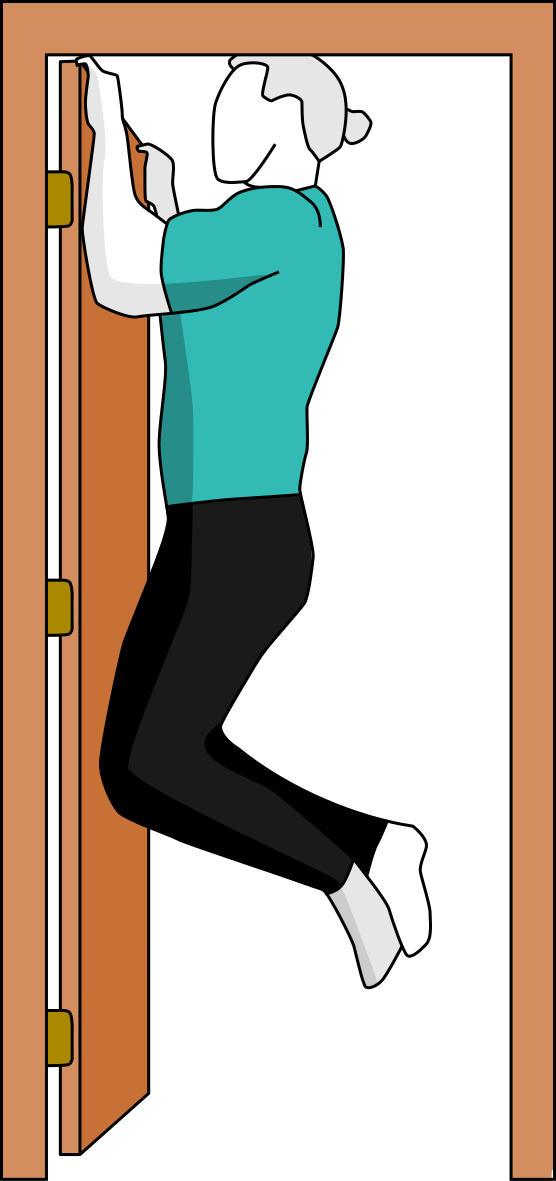
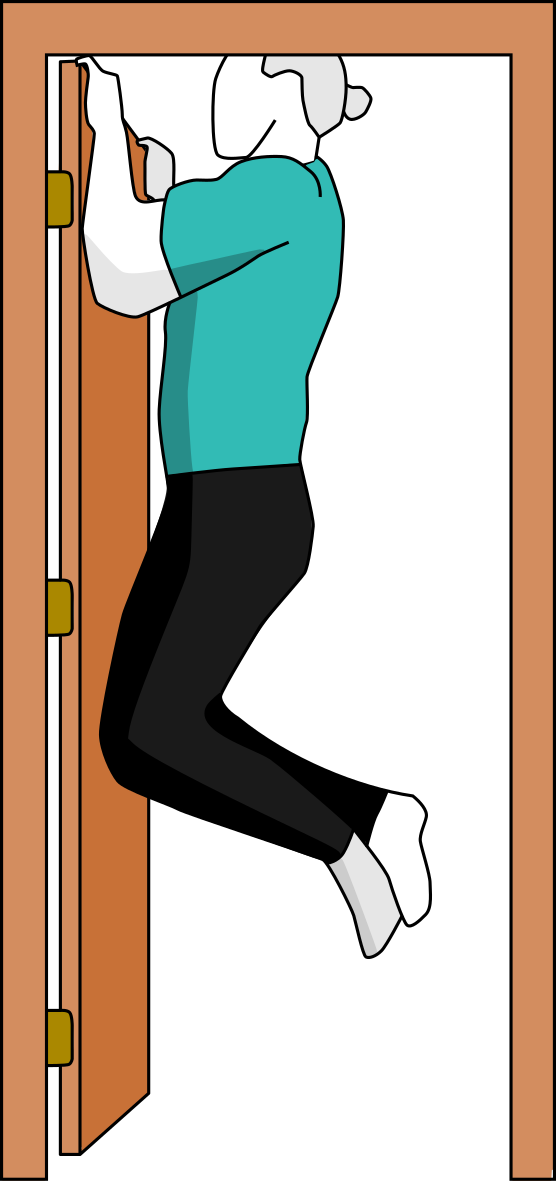
adds hold movements

Changed region(s): [[0.1529, 0.0305, 0.795, 0.8535], [0.1529, 0.061, 0.1835, 0.2134]]

diff --git a/xbapp/src/components/strength/MovementPicker.jsx b/xbapp/src/components/strength/MovementPicker.jsx
@@ -26,7 +26,6 @@ const moves = [
     description:
       "Find a sturdy box or chair. Facing away, extend your arms, feet spaced shoulder-width apart, push your bum outwards, and bring your body down and angled forwards until your bum touches the chair. Widen stance to increase difficulty.",
     images: ["box_squat_rest.png", "box_squat_engaged.png"],
-    type: "push",
     difficulty:
       "Don't rest on the box, just use it as your stopping point. Try a full squat if this is too easy. Lower the box to make this harder.",
     technique: "bilateral",
@@ -38,7 +37,6 @@ const moves = [
     description:
       "Extend your arms, feet spaced shoulder-width apart, push your bum outwards, and bring your body down and angled forwards as far as possible. Widen stance to increase difficulty.",
     images: ["full_squat_rest.png", "full_squat_engaged.png"],
-    type: "push",
     difficulty:
       "Get your bum as low as possible; if that's difficult, hang on to a door handle and lower yourself to feel the back of your legs hit the back of your calves.",
     technique: "bilateral",
@@ -53,7 +51,6 @@ const moves = [
       "bulgarian_split_squat_rest.png",
       "bulgarian_split_squat_engaged.png",
     ],
-    type: "push",
     difficulty:
       "Try a full squat if this is too hard; or a box pistol squat if this is too easy",
     technique: "isolateral",
@@ -65,7 +62,6 @@ const moves = [
     description:
       "Find a sturdy box or chair. If using a box, step on and squat your leg, angling your body forward with extended hands for balance. If using a chair, face away and squat with one leg, extending the other leg forward, until your bum touches the chair.",
     images: ["box_pistol_squat_rest.png", "box_pistol_squat_engaged.png"],
-    type: "push",
     difficulty: "",
     technique: "isolateral",
   },
@@ -76,7 +72,6 @@ const moves = [
     description:
       "The FOCUS in the movement is to LIFT your body with the bent leg, by using the bent leg and straightening it – just like we do climbing up stairs. You can lean forward over the bent leg to help lift the back leg up. PRACTICE USING AS LITTLE of the straight leg foot as possible. From standing on the box, reverse the movement, to lower the straight leg back down to the ground. Again, use the bent leg side to do the work.",
     images: ["step_up_rest.png", "step_up_engaged.png"],
-    type: "push",
     difficulty: "",
     technique: "isolateral",
   },
@@ -87,7 +82,6 @@ const moves = [
     description:
       "HANG ONTO something – a banister, door jam, door handles, your partner graciously hanging onto your mitts – whatever and AS LONG AS THERE’S NO PAIN – get down there, and get on up out of there.",
     images: ["supported_squat_rest.png", "supported_squat_engaged.png"],
-    type: "push",
     difficulty: "",
     technique: "bilateral",
   },
@@ -101,7 +95,6 @@ const moves = [
       "shoulder_stand_squat_rest.png",
       "shoulder_stand_squat_engaged.png",
     ],
-    type: "push",
     difficulty: "",
     technique: "bilateral",
   },
@@ -112,7 +105,6 @@ const moves = [
     description:
       "Lay on your back, arms flat either side, knees bent pointing upwards. Drive your hips upwards until your back is nearly straight, pivoting from your shoulder blades. Rest a weight on your body to increase difficulty.",
     images: ["glute_raise_rest.png", "glute_raise_engaged.png"],
-    type: "push",
     difficulty: "Try a short bridge if this is too easy.",
     technique: "bilateral",
   },
@@ -123,7 +115,6 @@ const moves = [
     description:
       "Lay on your back, knees bent upwards, arms laying either side of your body or resting on your belly. Drive your hips upwards, forming a bridge shape with your back, pivoting from your upper back. Hold a weight to increase difficulty.",
     images: ["short_bridge_rest.png", "short_bridge_engaged.png"],
-    type: "push",
     difficulty: "Try a single leg romanian deadlift if this is too easy.",
     technique: "bilateral",
   },
@@ -137,7 +128,6 @@ const moves = [
       "single_leg_romanian_deadlift_rest.png",
       "single_leg_romanian_deadlift_engaged.png",
     ],
-    type: "push",
     difficulty:
       "Place your hands on the back of a chair if balance is a challenge, or go hands-free to make this harder.",
     technique: "isolateral",
@@ -149,7 +139,6 @@ const moves = [
     description:
       "Find a sturdy box or chair. Lie back on object, keeping feet flat and shoulder width apart. Place hands either side of your head, palms flat on object, fingers pointing at your toes. Press through the hands, pushing your hips up and arcing your back as far as you can.",
     images: ["angled_bridge_rest.png", "angled_bridge_engaged.png"],
-    type: "push",
     difficulty: "Try one of the easier squats if this is too hard.",
     technique: "bilateral",
   },
@@ -160,7 +149,6 @@ const moves = [
     description:
       "Start laying face down on the floor, legs and arms fully extended so you look like a green bean. For the movement, simultaneously bring both legs up, as well as your upper body (pivot from the diaphragm), and bring both arms backwards and inwards pressing your shoulder blades together.",
     images: ["the_swimmer_rest.png", "the_swimmer_engaged.png"],
-    type: "pull",
     difficulty: "",
     technique: "bilateral",
   },
@@ -171,7 +159,6 @@ const moves = [
     description:
       "This drill is basically stand away from a wall, and reach back to touch it with your butt, then stand up straight – where you use your legs as much as possible to manage the load. That is avoid falling towards the wall, or pushing with your butt to throw yourself forward from the wall. Keep your knees at your ankles – this helps work the right muscles.",
     images: ["wall_rdl_prep_rest.png", "wall_rdl_prep_engaged.png"],
-    type: "pull",
     difficulty: "",
     technique: "bilateral",
   },
@@ -182,7 +169,6 @@ const moves = [
     description:
       "With knees up back in contact ALWAYS with the floor, arms reach straight up for the sky. Pulse up – it’s a very small movement, but doing it you’ll feel it. From strength developing working this movement, you can begin to bring your arms overhead, reaching behind you. After that feels strong, extend your legs ALWAYS KEEP YOUR BACK in contact with the ground.",
     images: ["hollow_body_rest.png", "hollow_body_engaged.png"],
-    type: "pull",
     difficulty: "",
     technique: "bilateral",
   },
@@ -193,7 +179,6 @@ const moves = [
     description:
       "Sit on the floor in an upright position, legs fully extended, stabilising your body with both hands on the floor either side. Keeping your leg as straight as possible, raise one upwards as far as you can, pause and squeeze your thigh at the top, then bring down again to rest. Endeavor NOT to let the leg drop, but to control that lowering.",
     images: ["single_leg_pike_rest.png", "single_leg_pike_engaged.png"],
-    type: "pull",
     difficulty: "",
     technique: "isolateral",
   },
@@ -204,7 +189,6 @@ const moves = [
     description:
       "Lay on the floor belly first, elbows back fairly tight against the body, hands flat below the shoulders. Keeping your body below your hips flat on the floor, drive your entire upper body upwards, engaging your core and fully extending your arms.",
     images: ["push_up_rest.png", "cobra_push_up_engaged.png"],
-    type: "pull",
     difficulty: "Try a flat push up if this is too easy",
     technique: "bilateral",
   },
@@ -215,7 +199,6 @@ const moves = [
     description:
       "Lay on the floor belly first, elbows back fairly tight against the body, hands flat below the shoulders, pivoting from your toes. Drive through your arms until fully extended. Reduce difficulty by pivoting from your knees instead.",
     images: ["push_up_rest.png", "push_up_engaged.png"],
-    type: "pull",
     difficulty:
       "Try an elevated push up if this is too easy; or a cobra push up if this is too hard",
     technique: "bilateral",
@@ -227,7 +210,6 @@ const moves = [
     description:
       "Find a sturdy box or chair. Carefully lean forwards, elbows back fairly tight against the body, hands flat on the object below the shoulders, pivoting from your toes. Drive through your arms until fully extended. Reduce difficulty by pivoting from your knees instead.",
     images: ["elevated_push_up_rest.png", "elevated_push_up_engaged.png"],
-    type: "pull",
     difficulty:
       "Move your feet apart to make this easier, or try a flat push up if this is too hard.",
     technique: "bilateral",
@@ -239,7 +221,6 @@ const moves = [
     description:
       "You’ll notice in the Hindu Push up that it MOVES – there’s a nice flow from a kind of what in Yoga is a downward dog position (an inverted V) into the cobra. See how that feels doing 10 in a row of these as an option for one of the blocks. If this combo move is too effortful to get a comfy 10, then let’s look at the flat push up progressions.",
     images: ["hindu_push_up_rest.png", "hindu_push_up_engaged.png"],
-    type: "pull",
     difficulty: "",
     technique: "bilateral",
   },
@@ -250,7 +231,6 @@ const moves = [
     description:
       "Lay on the floor belly first, elbows back fairly tight against the body, hands pushed together flat below the breastplate, pivoting from your toes. Drive through your arms until fully extended. Reduce difficulty by pivoting from your knees instead.",
     images: ["diamond_push_up_rest.png", "diamond_push_up_engaged.png"],
-    type: "pull",
     difficulty: "",
     technique: "bilateral",
   },
@@ -261,7 +241,6 @@ const moves = [
     description:
       "Stand facing a door frame or other solid vertical object. Grip the object with both hands level with your upper chest. Lean your body backwards until your arms fully extend, then pull your body back to an upright position. Bring both feet further forward to angle your body and increase difficulty.",
     images: ["vertical_pull_rest.png", "vertical_pull_engaged.png"],
-    type: "pull",
     difficulty:
       "Step towards the door frame to make this harder, or away to make it easier",
     technique: "bilateral",
@@ -276,7 +255,6 @@ const moves = [
       "pronated_australian_pull_rest.png",
       "pronated_australian_pull_engaged.png",
     ],
-    type: "pull",
     difficulty:
       "Try a Suppinated Austrialian Pull or Horizontal Pull if this is too easy!",
     technique: "bilateral",
@@ -291,7 +269,6 @@ const moves = [
       "suppinated_australian_pull_rest.png",
       "suppinated_australian_pull_engaged.png",
     ],
-    type: "pull",
     difficulty: "",
     technique: "bilateral",
   },
@@ -302,7 +279,6 @@ const moves = [
     description:
       "Find a sturdy table or chair. Lay beneath it, shoulders slightly forward of the lip of the object, firmly gripping the lip with both hands. Pull your body upwards with your arms to meet the object, pivoting from your ankles. Bend knees and pivot from your bum to reduce difficulty.",
     images: ["horizontal_pull_rest.png", "horizontal_pull_engaged.png"],
-    type: "pull",
     difficulty: "",
     technique: "bilateral",
   },
@@ -313,7 +289,6 @@ const moves = [
     description:
       "Facing towards the door and standing upright or bending your legs, firmly grip your tether at about chest height and gently lean backwards into your resting position (where your arms are fully extended). Pull yourself towards the door with both arms, pivoting from your feet, until vertical again.",
     images: ["tethered_door_pull_rest.png", "tethered_door_pull_engaged.png"],
-    type: "pull",
     difficulty: "",
     technique: "bilateral",
   },
@@ -324,7 +299,6 @@ const moves = [
     description:
       "Grab the top of a door, hand shoulder width apart, and pull yourself up, and lower yourself back down. If you wish, put a towel at the top of the door for comfort.",
     images: ["door_hang_pull_rest.png", "door_hang_pull_engaged.png"],
-    type: "pull",
     difficulty: "",
     technique: "bilateral",
   },
@@ -335,10 +309,89 @@ const moves = [
     description:
       "A way to start exploring single arm pulls is to go back to the doorway and see how that feels with one arm. If that feels good you can explore what are called “archer rows” with the sheets or pillow cases in the doors. In the archer you move one arm out to the side and pull mainly with the other arm you keep in the normal pull position.",
     images: ["one_arm_door_pull_rest.png", "one_arm_door_pull_engaged.png"],
-    type: "pull",
     difficulty: "",
     technique: "isolateral",
   },
+  {
+    id: "doorhanghold",
+    name: "Hold 1: Door Hang",
+    type: "pull",
+    description:
+      "Firmly grasp the top of a door with both hands. Engage your biceps to lift your entire body off the ground until your throat is level with the top and your toes can just touch the ground. Hold for 15 seconds.",
+    images: ["door_hang_hold.png", "door_hang_hold.png"],
+    difficulty: "",
+    technique: "isolateral",
+  },
+  {
+    id: "horsestance",
+    name: "Hold 2: Horse Stance",
+    type: "push",
+    description:
+      "Stand legs wide apart feet pointing outwards. Bend your knees at right angles and stick your butt out, leaning your upper body forwards. Hold for 15 seconds.",
+    images: ["horse_stance_engaged_nowall.png", "horse_stance_engaged_nowall.png"],
+    difficulty: "",
+    technique: "isolateral",
+  },
+  {
+    id: "middlesplit",
+    name: "Hold 3: Middle Split",
+    type: "push",
+    description:
+      "Stand legs wide apart feet pointing outwards in a split stance. Keep your legs straight, and increase the angle as far as comfortable. Hold for 15 seconds.",
+    images: ["middle_split_engaged.png", "middle_split_engaged.png"],
+    difficulty: "",
+    technique: "isolateral",
+  },
+  {
+    id: "pikehold",
+    name: "Hold 4: Pike Hold",
+    type: "pull",
+    description:
+      "Stand legs close together. Fold your upper body over with your arms stretched out until hands touch the floor, with your butt sticking up. Hold for 15 seconds.",
+    images: ["pike_hold_engaged.png", "pike_hold_engaged.png"],
+    difficulty: "",
+    technique: "isolateral",
+  },
+  {
+    id: "planchelean",
+    name: "Hold 5: Planche Lean",
+    type: "push",
+    description:
+      "Lay flat on the floor. Push yourself off the ground (like a push up) and gradually lean your body forward so your arms are angled and your back is arched with your feet brushing the ground. Hold for 15 seconds.",
+    images: ["planche_lean_engaged.png", "planche_lean_engaged.png"],
+    difficulty: "",
+    technique: "isolateral",
+  },
+  {
+    id: "tablebridge",
+    name: "Hold 6: Isometric Table Bridge",
+    type: "push",
+    description:
+      "Sit on the ground. Place your arms behind you hands facing forward. Bring your butt off the ground so your legs are right angles and your arms straight. Hold for 15 seconds.",
+    images: ["isometric_table_bridge.png", "isometric_table_bridge.png"],
+    difficulty: "",
+    technique: "isolateral",
+  },
+  {
+    id: "sideplank",
+    name: "Hold 7: Side Plank",
+    type: "push",
+    description:
+      "Lay on your side leaning on your arm. Raise your entire body with your arm, keeping it straight and pivoting from your heel. Hold for 15 seconds. Repeat the other side.",
+    images: ["side_plank_engaged.png", "side_plank_rest.png"],
+    difficulty: "",
+    technique: "isolateral",
+  },
+  {
+    id: "tricephold",
+    name: "Hold 8: Tricep Hold",
+    type: "push",
+    description:
+      "Position yourself between two objects. Place a hand flat on each one about level with your body. Push yourself upwards until your arm is fully extended and your toes brush the ground. Hold for 15 seconds.",
+    images: ["tricep_dip_hold.png", "tricep_dip_hold.png"],
+    difficulty: "",
+    technique: "isolateral",
+  }
 ];
 
 /**
